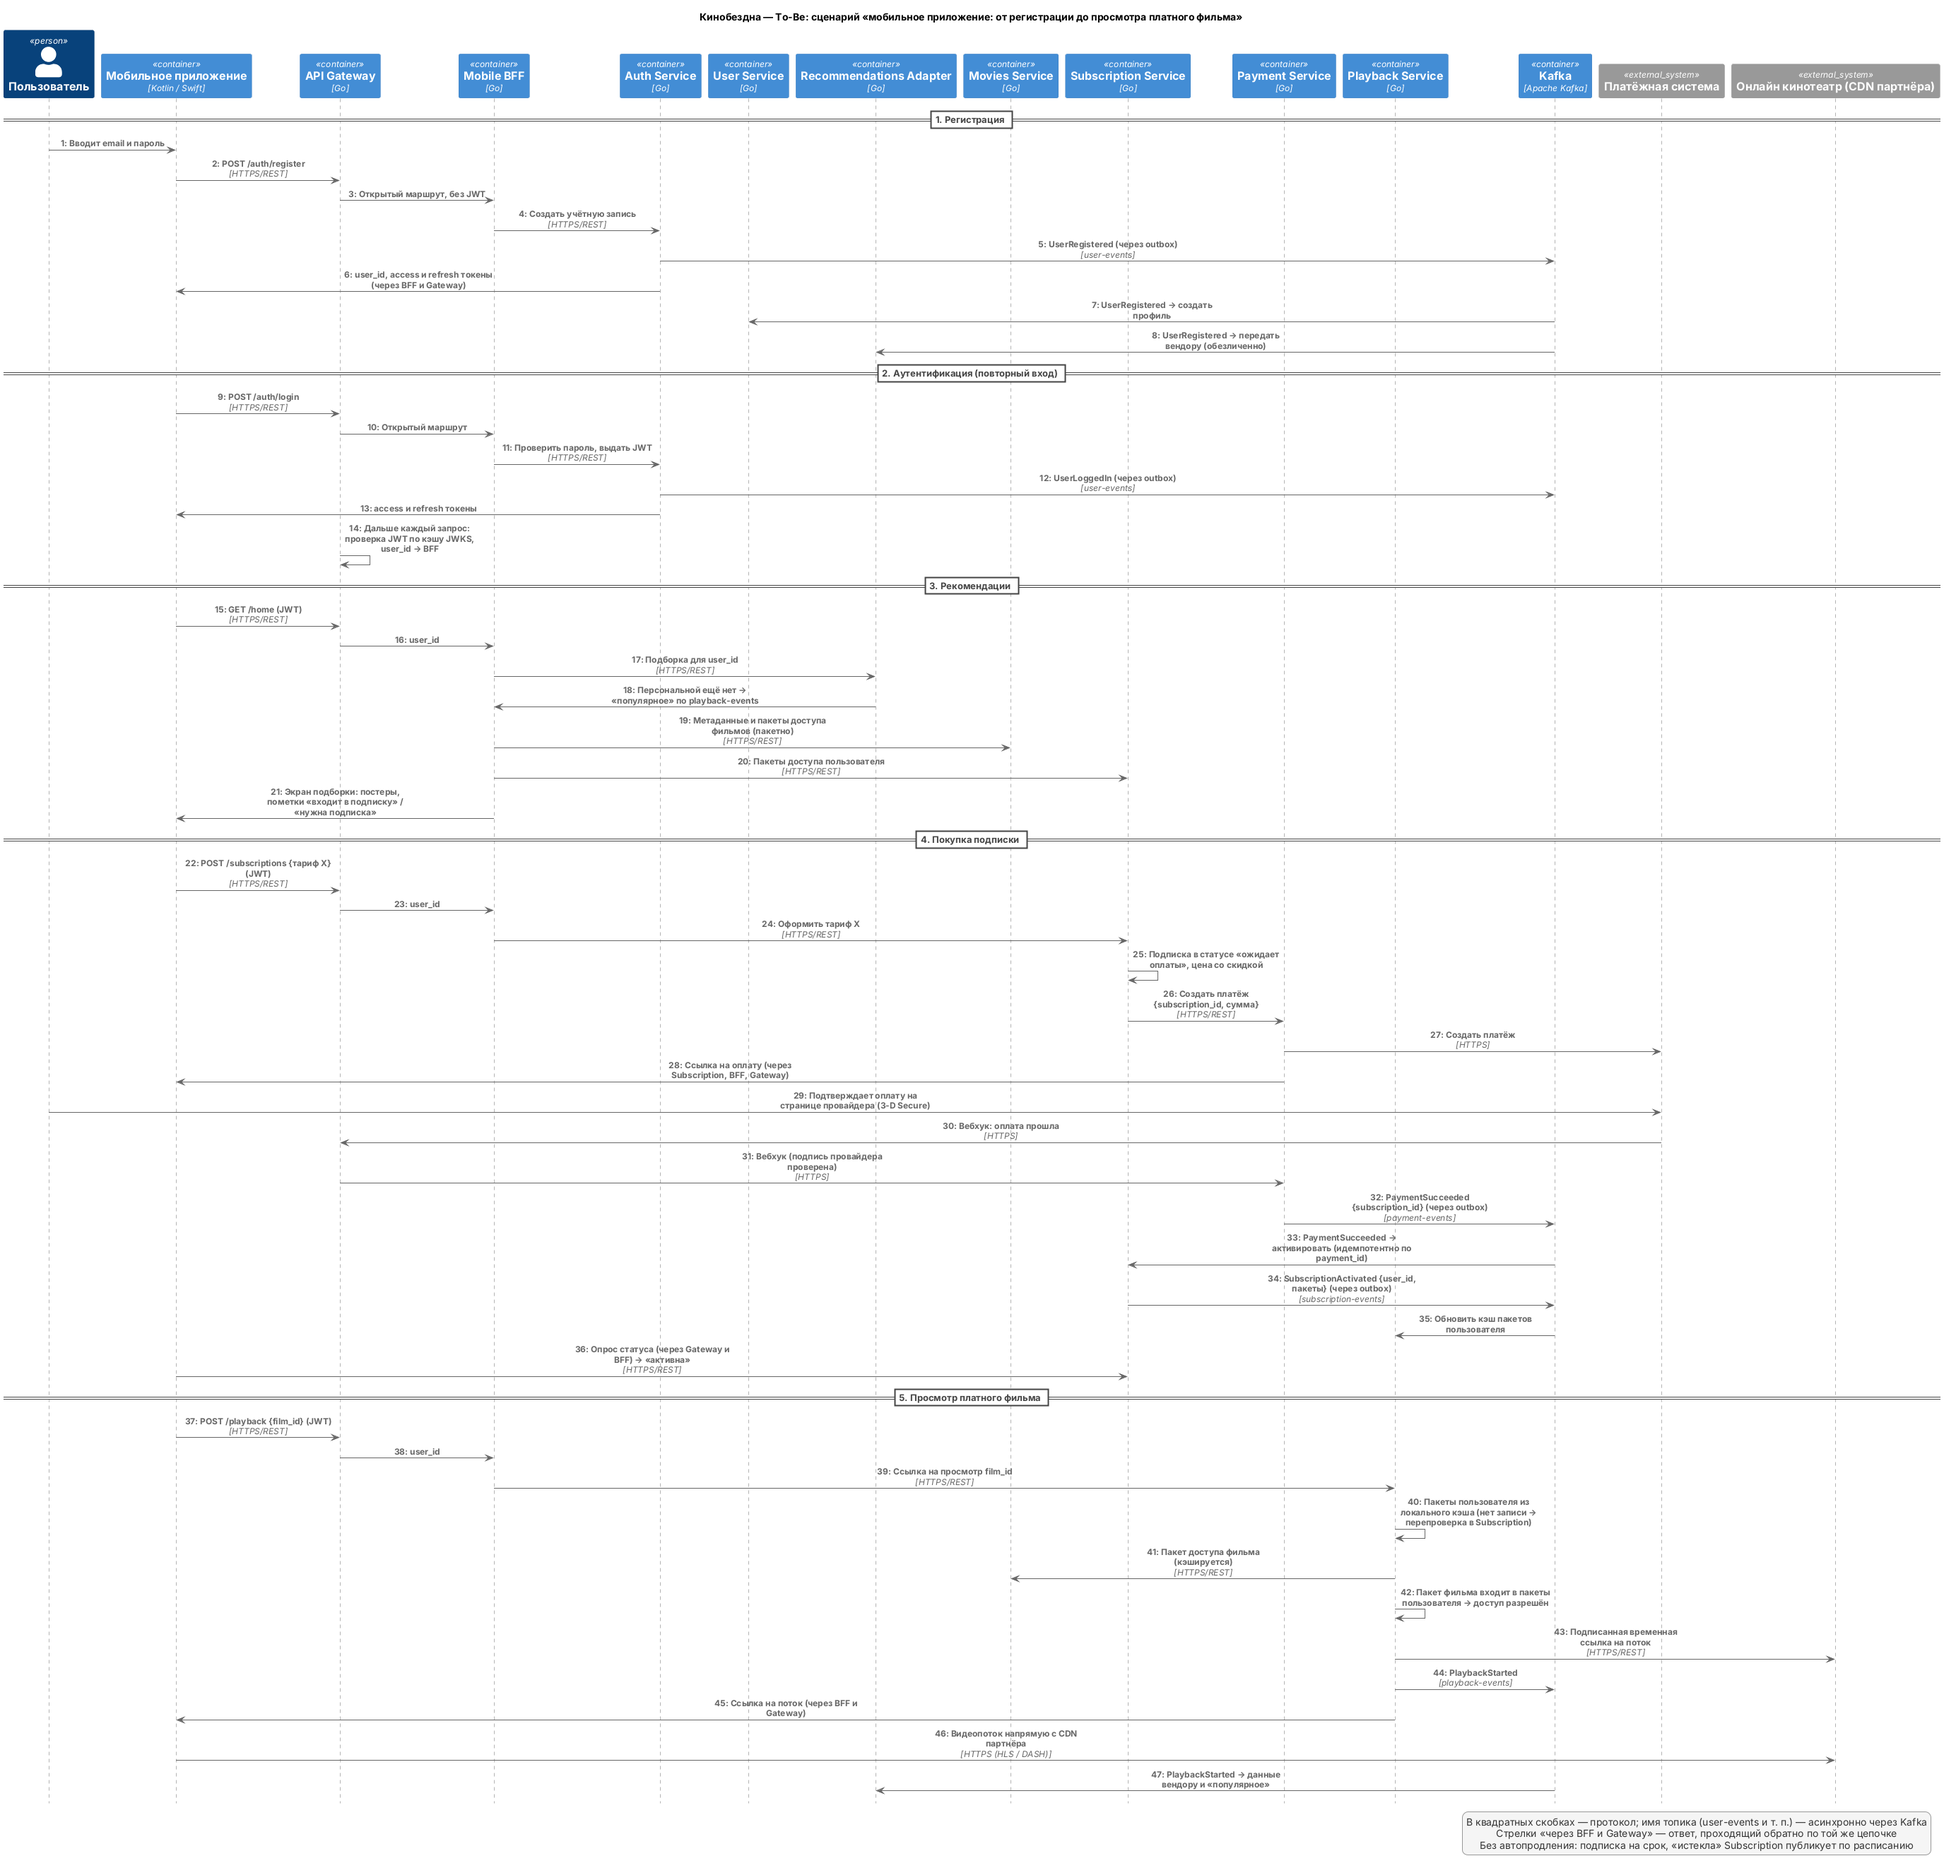
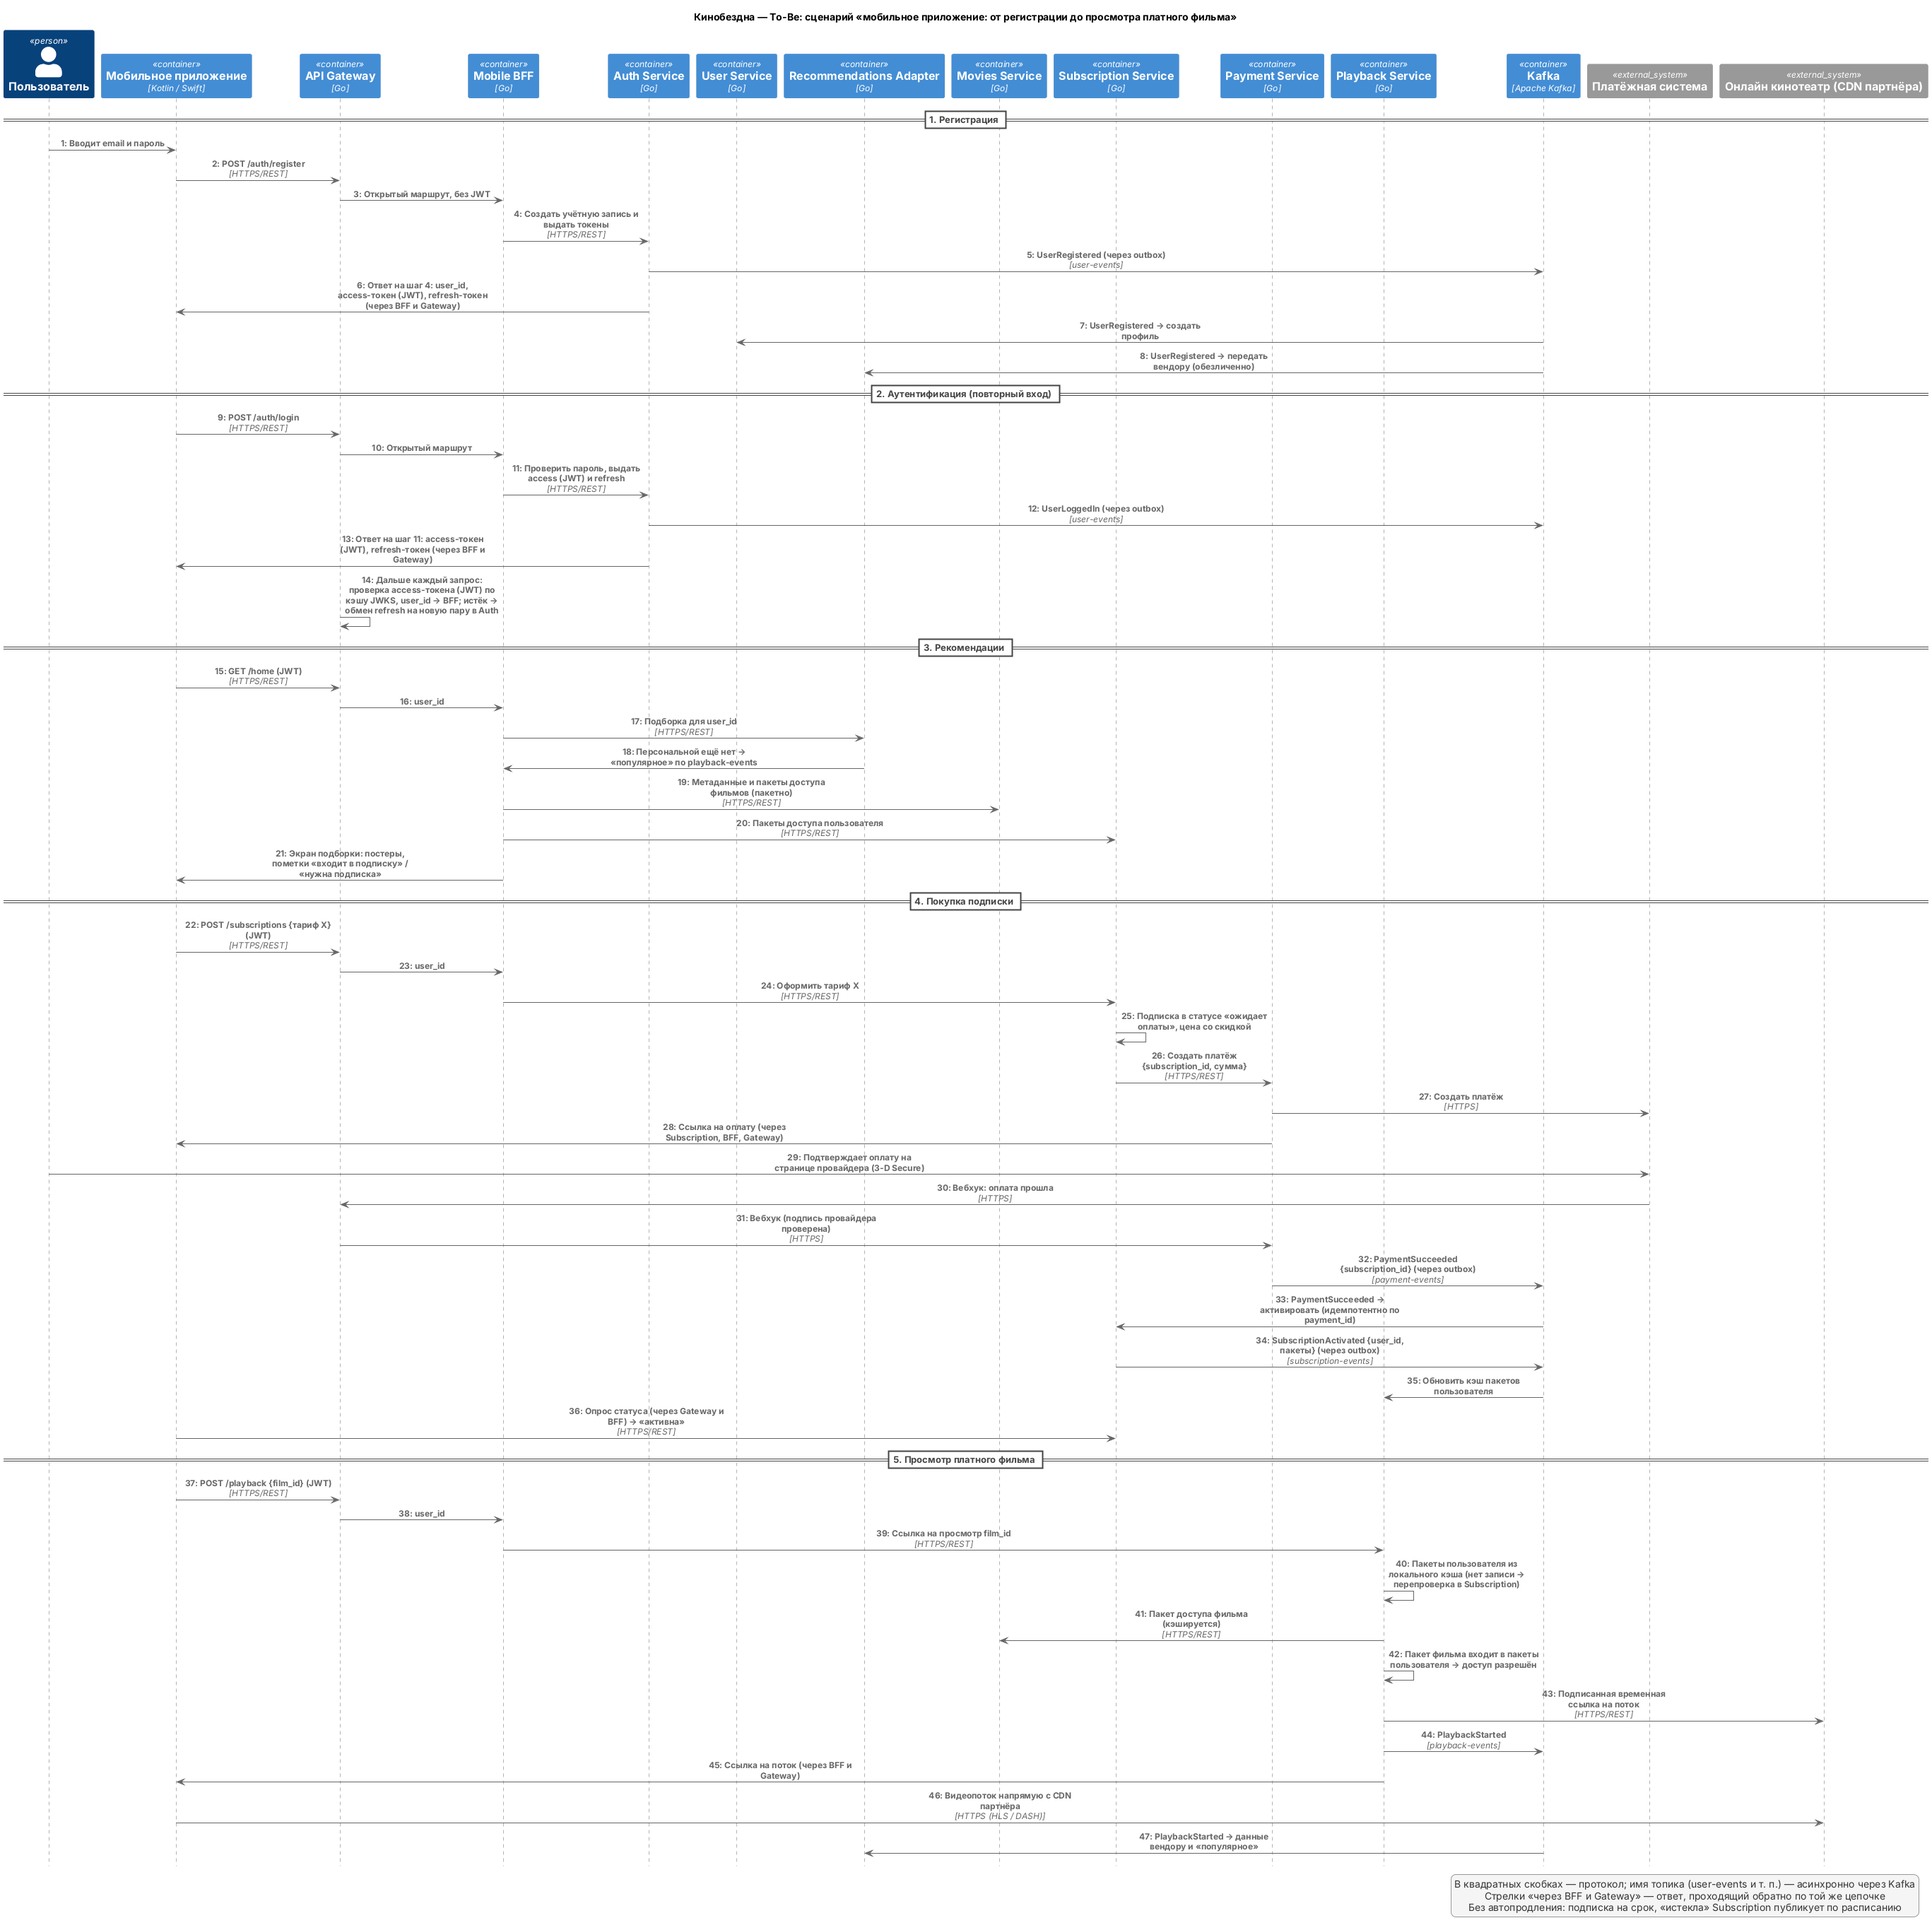
task1: уточнены токены — access (JWT) и refresh в сценарии и описании Auth

diff --git a/Project_template.md b/Project_template.md
@@ -36,6 +36,7 @@
 ### Единая точка вызова
 
 - **API Gateway** — единственный вход снаружи: TLS, проверка JWT (локально, по кэшированным ключам JWKS из Auth), rate limiting, маршрутизация, приём вебхуков платёжной системы.
+- **Токены.** Auth выдаёт пару: access-токен в формате JWT (~15 мин, подписан закрытым ключом Auth, содержит только `user_id` и служебные поля) и refresh-токен (случайная строка, хэш хранится в БД Auth, ротация при каждом обмене, повторное предъявление → отзыв цепочки). Gateway проверяет access локально по открытым ключам JWKS, не обращаясь к Auth; истёкший access клиент меняет на новую пару по refresh. Тариф и пакеты в токен не кладутся — права на контент проверяет Playback по актуальным данным подписки.
 - **BFF** — отдельный на каждый тип клиента (Web / Mobile / Smart TV): разные интерфейсы и объём данных, агрегация ответов нескольких сервисов. На диаграмме показан одним блоком, чтобы не дублировать связи.
 
 ### Интеграционное взаимодействие
